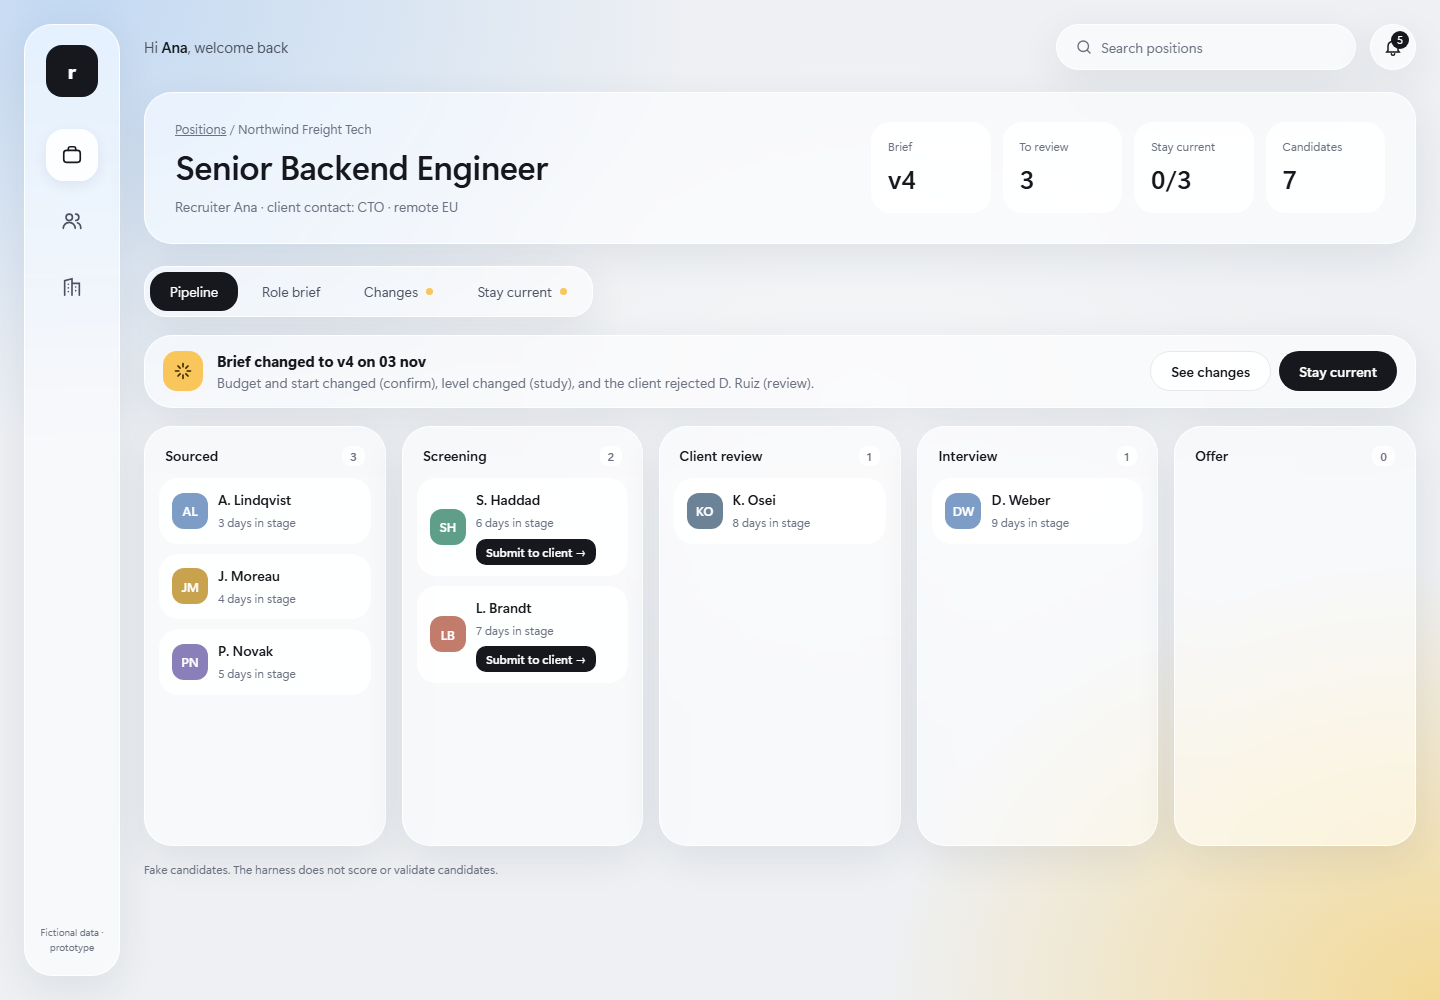
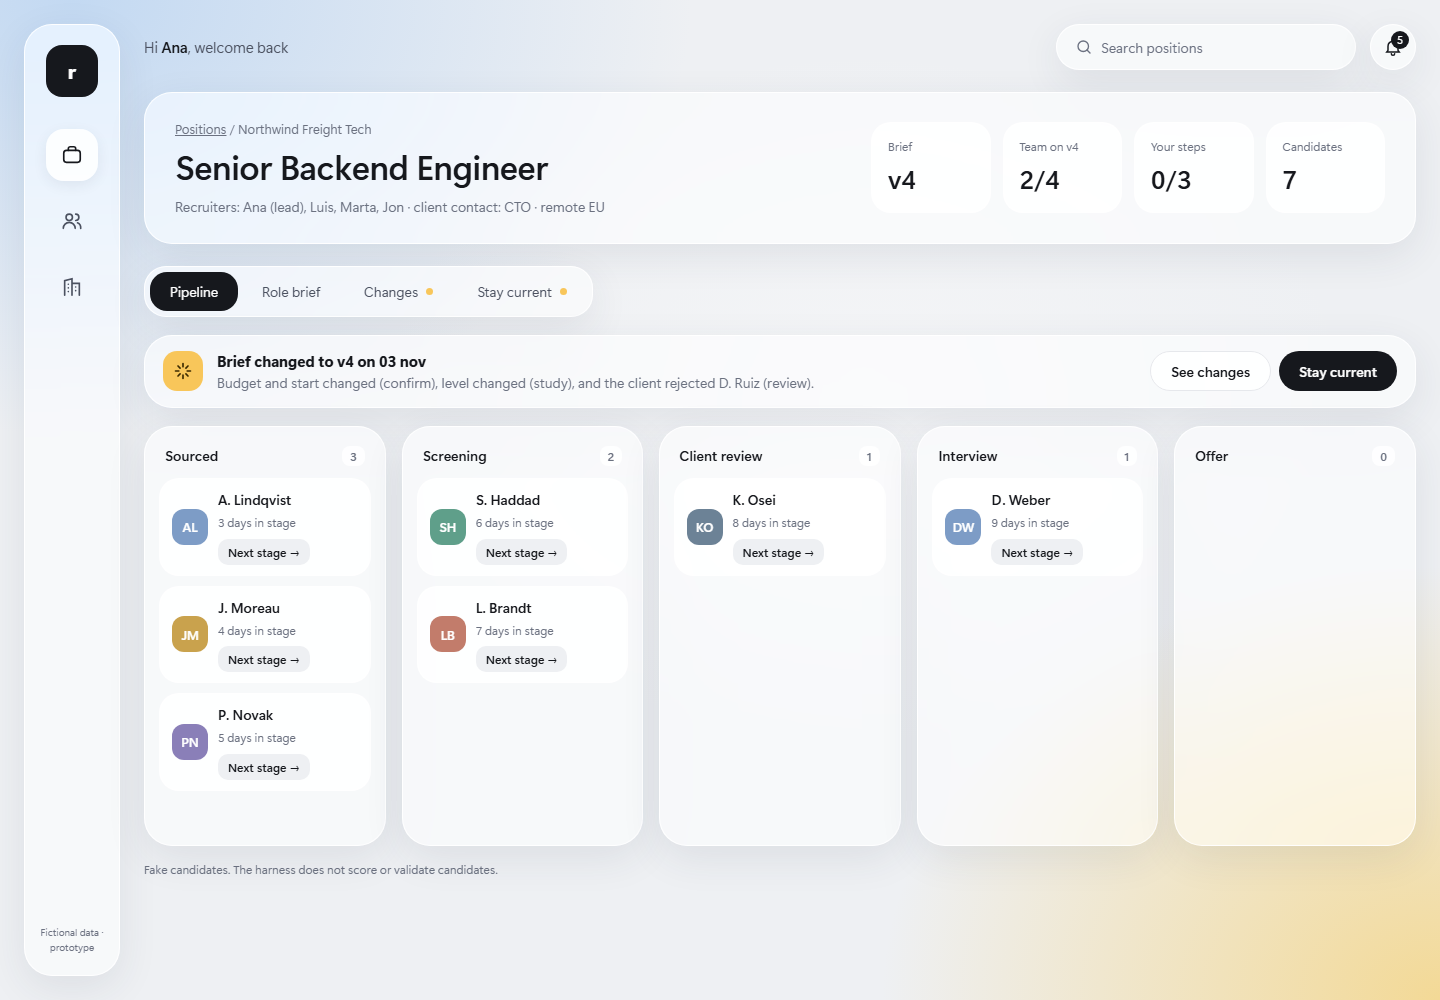
Remove submit gate, add team completion view, record transcript scope

diff --git a/_work/2026-11-07-client-context/proto-ats-a-hifi.html b/_work/2026-11-07-client-context/proto-ats-a-hifi.html
@@ -128,6 +128,8 @@ textarea{width:100%;min-height:80px;border-radius:16px;border:1.5px solid #d3d8e
 .mbox{width:620px;max-width:92vw;padding:24px 26px;background:rgba(255,255,255,.92)}
 .linkb{text-decoration:underline;font-weight:600;padding:0}
 .pop{position:fixed;left:50%;bottom:32px;transform:translateX(-50%);display:none;align-items:center;gap:14px;padding:14px 18px;z-index:10}.pop.on{display:flex}
+.mv{display:block;margin-top:6px;font-size:12px;font-weight:600;padding:4px 10px;border-radius:10px;background:#eef0f3;color:var(--ink)}.mv:hover{background:var(--ink);color:#fff}
+#toast{max-width:640px;font-size:14px}
 .stub{font-size:12px;color:var(--muted);margin-top:14px}
 </style></head><body>
 <div class="app">
@@ -139,7 +141,7 @@ textarea{width:100%;min-height:80px;border-radius:16px;border:1.5px solid #d3d8e
 <div class="foot">Fictional data · prototype</div>
 </aside>
 <main id="main"></main>
-<div class="overlay" id="modal" onclick="if(event.target===this)closeM()"></div>
+<div class="glass pop" id="toast" role="status"></div>
 <div class="glass pop" id="pop" role="status"><span>Audio answers are not part of this MVP. Please write your answer.</span><button class="pill light" onclick="document.getElementById('pop').classList.remove('on')">OK</button></div>
 </div>
 <script>
@@ -174,8 +176,11 @@ const STUDY={p:'Senior was the level; a strong mid-level is now discussed. For i
 pts:['Has owned real incidents, not only joined them (on-call, outage)','Explains what they decided and what changed after (post-mortem, follow-up)','Senior gap: leading others or designing for failure (lead, design)'],keys:[['on-call','outage','incident'],['post-mortem','postmortem','decided','changed','follow'],['lead','design','mentor']],src:'Sources: kickoff · 05 oct (must-have), founder email · 03 nov (level).'};
 const COV=[['Incident ownership','asked','g'],['Postgres under load','asked','g'],['Event-driven systems','briefly','ys'],['System design','not asked','r'],['Go (trainable)','4 of 11 questions','r']];
 const VER=[{k:'design',t:'A system they designed, with one trade-off they chose',why:'Client rejected on design depth; your screening did not ask.',src:'10 nov'},{k:'go',t:'Spend at most one question on Go',why:'Go is trainable since v2; 4 of 11 questions went to it.',src:'10 nov'}];
+const TEAM=[['Luis Ortega',3],['Marta Kim',3],['Jon Bauer',1]];
+function team(){return [['Ana Torres (you)',doneCount()],...TEAM]}
+function teamUp(){return team().filter(t=>t[1]===3).length}
 const BASEV=[{t:'The last production incident they owned end to end',src:'must-have · kickoff 05 oct'},{t:'Salary expectation against the €72k cap',src:'founder email · 03 nov'}];
-const S={view:'list',pos:null,tab:'pipeline',ack:{},study:'',studyDone:false,rev:'',revDone:false,verify:{}};
+const S={cards:{},view:'list',pos:null,tab:'pipeline',ack:{},study:'',studyDone:false,rev:'',revDone:false,verify:{}};
 const ic={mic:'<svg width="18" height="18" viewBox="0 0 24 24" fill="none" stroke="currentColor" stroke-width="1.8" stroke-linecap="round"><rect x="9" y="3" width="6" height="11" rx="3"/><path d="M5 11a7 7 0 0 0 14 0M12 18v3"/></svg>',bell:'<svg viewBox="0 0 24 24" fill="none" stroke="currentColor" stroke-width="1.8" stroke-linecap="round"><path d="M6 16V11a6 6 0 1 1 12 0v5l1.5 2h-15z"/><path d="M10 20a2 2 0 0 0 4 0"/></svg>',
 search:'<svg width="18" height="18" viewBox="0 0 24 24" fill="none" stroke="currentColor" stroke-width="1.8" stroke-linecap="round"><circle cx="11" cy="11" r="7"/><path d="m20 20-4-4"/></svg>',
 spark:'<svg width="20" height="20" viewBox="0 0 24 24" fill="none" stroke="#3b2a00" stroke-width="2" stroke-linecap="round"><path d="M12 3v4M12 17v4M3 12h4M17 12h4M6 6l2.5 2.5M15.5 15.5 18 18M6 18l2.5-2.5M15.5 8.5 18 6"/></svg>'};
@@ -187,26 +192,29 @@ function topBar(){const n=POS.reduce((a,p)=>a+p.unrev,0);return `<div class="top
 function draw(){$('main').innerHTML=topBar()+(S.view==='list'?list():position());const a=$('tstudy');if(a)a.value=S.study;const b=$('trev');if(b)b.value=S.rev;progress()}
 function spark(t){const w=260,h=44,m=Math.max(...t),pts=t.map((v,i)=>[i*w/(t.length-1),h-4-(v/m)*(h-10)]);return `<svg class="spark" viewBox="0 0 ${w} ${h}" preserveAspectRatio="none" width="100%"><polyline fill="none" stroke="#e0b347" stroke-width="2.5" stroke-linejoin="round" points="${pts.map(p=>p.join(',')).join(' ')}"/>${pts.map(p=>`<circle cx="${p[0]}" cy="${p[1]}" r="3" fill="#fff" stroke="#e0b347" stroke-width="2"/>`).join('')}</svg>`}
 function list(){const total=POS.reduce((a,p)=>a+p.unrev,0);return `<section class="glass hero" style="grid-template-columns:1fr auto">
-<div><p class="h1">Open positions</p><div class="big">${POS.length} searches</div><div style="margin-top:10px;display:flex;gap:8px"><span class="chip y">${total} brief changes to review</span><span class="chip g">1 stay-current check due</span></div></div>
+<div><p class="h1">Open positions</p><div class="big">${POS.length} searches</div><div style="margin-top:10px;display:flex;gap:8px"><span class="chip y">${total} brief changes to review</span><span class="chip g">1 team not up to date</span></div></div>
 <div class="sub" style="max-width:300px">Open a position to see its pipeline, the current role brief, how it changed, and whether you're up to date.</div></section>
 <h2 style="font-size:18px;font-weight:600;margin:28px 4px 14px">Your positions</h2>
 <div class="cards">${POS.map(p=>`<article class="glass pos" onclick="go('pos','${p.id}')" tabindex="0" onkeydown="if(event.key==='Enter')go('pos','${p.id}')">
 <div style="display:flex;justify-content:space-between;align-items:start"><div><div class="co">${p.co}</div><h3>${p.t}</h3></div><span class="chip k">${p.ver}</span></div>
 <div class="stats"><div class="tile stat"><small>Candidates</small><b>${p.stages.reduce((a,b)=>a+b)}</b></div>
 <div class="tile stat"><small>Changes to review</small><b>${p.unrev}</b> ${p.unrev?'<span class="chip y" style="vertical-align:4px">new</span>':''}</div></div>
-<div style="display:flex;justify-content:space-between;align-items:center;margin-top:12px"><span class="sub">Brief changes over time</span>${p.check?`<span class="chip g">check ${p.check}</span>`:'<span class="chip r">check due</span>'}</div>
+<div style="display:flex;justify-content:space-between;align-items:center;margin-top:12px"><span class="sub">Brief changes over time</span>${p.id==='nw-be'?`<span class="chip r">team ${teamUp()}/${team().length} on ${p.ver}</span>`:`<span class="chip g">team 3/3 on ${p.ver}</span>`}</div>
 ${spark(p.trend)}</article>`).join('')}</div>`}
 function position(){const p=POS.find(x=>x.id===S.pos),full=p.id==='nw-be';
 const T=[['pipeline','Pipeline'],['brief','Role brief'],['changes','Changes',p.unrev],['check','Stay current',doneCount()<3]];
 return `<section class="glass hero"><div><div class="crumb"><button onclick="go('list')">Positions</button> / ${p.co}</div>
-<div class="title">${p.t}</div><div class="sub" style="margin-top:4px">Recruiter Ana · client contact: CTO · remote EU</div></div>
-<div class="kpis"><div class="tile kpi"><small>Brief</small><b>${p.ver}</b></div><div class="tile kpi"><small>To review</small><b>${p.unrev}</b></div>
-<div class="tile kpi"><small>Stay current</small><b>${doneCount()}/3</b></div><div class="tile kpi"><small>Candidates</small><b>${p.stages.reduce((a,b)=>a+b)}</b></div></div></section>
+<div class="title">${p.t}</div><div class="sub" style="margin-top:4px">Recruiters: Ana (lead), Luis, Marta, Jon · client contact: CTO · remote EU</div></div>
+<div class="kpis"><div class="tile kpi"><small>Brief</small><b>${p.ver}</b></div><div class="tile kpi"><small>Team on v4</small><b>${full?teamUp()+"/"+team().length:"—"}</b></div>
+<div class="tile kpi"><small>Your steps</small><b>${doneCount()}/3</b></div><div class="tile kpi"><small>Candidates</small><b>${p.stages.reduce((a,b)=>a+b)}</b></div></div></section>
 <div class="seg glass">${T.map(([k,l,n])=>`<button class="${S.tab===k?'on':''}" onclick="tab('${k}')">${l}${n?'<span class="n"></span>':''}</button>`).join('')}</div>
 ${!full&&S.tab!=='pipeline'?`<div class="glass panel"><h3>No detailed data in this prototype</h3><div class="sub">Open Northwind · Senior Backend Engineer to see this tab.</div></div>`:({pipeline:pipe,brief,changes,check})[S.tab](p)}`}
-function pipe(p){let n=0;return `${p.unrev?`<div class="glass alert"><div class="ic">${ic.spark}</div><div><b>Brief changed to ${p.ver} on 03 nov</b><div class="sub">Budget and start changed (confirm), level changed (study), and the client rejected D. Ruiz (review).</div></div>
+function cards(p){if(!S.cards[p.id]){let n=0;S.cards[p.id]=p.stages.flatMap((k,i)=>Array.from({length:k},()=>{const nm=NAMES[n%12],c=AV[n%6];n++;return {nm,c,st:i,d:2+n}}))}return S.cards[p.id]}
+function move(id,nm){const c=S.cards[id].find(x=>x.nm===nm);c.st++;c.d=0;draw();toast(nm+' moved to '+STAGES[c.st]+'. No check needed: checks happen when the brief changes.')}
+function toast(t){const e=$('toast');e.textContent=t;e.classList.add('on');clearTimeout(e._t);e._t=setTimeout(()=>e.classList.remove('on'),3200)}
+function pipe(p){return `${p.unrev?`<div class="glass alert"><div class="ic">${ic.spark}</div><div><b>Brief changed to ${p.ver} on 03 nov</b><div class="sub">Budget and start changed (confirm), level changed (study), and the client rejected D. Ruiz (review).</div></div>
 <div class="act"><button class="pill light" onclick="tab('changes')">See changes</button><button class="pill dark" onclick="tab('check')">Stay current</button></div></div>`:''}
-<div class="board">${STAGES.map((s,i)=>`<div class="glass col"><h4>${s}<span>${p.stages[i]}</span></h4>${Array.from({length:p.stages[i]},()=>{const nm=NAMES[n%12],c=AV[n%6];n++;return `<div class="tile cand"><div class="av" style="background:${c}">${nm.split(' ').map(x=>x[0]).join('').replace('.','')}</div><div><b>${nm}</b><small>${2+n} days in stage</small>${i===1?`<button class="subm" onclick="openSubmit('${nm}')">Submit to client →</button>`:''}</div></div>`}).join('')}</div>`).join('')}</div>
+<div class="board">${STAGES.map((s,i)=>{const cs=cards(p).filter(c=>c.st===i);return `<div class="glass col"><h4>${s}<span>${cs.length}</span></h4>${cs.map(c=>`<div class="tile cand"><div class="av" style="background:${c.c}">${c.nm.split(' ').map(x=>x[0]).join('')}</div><div><b>${c.nm}</b><small>${c.d} days in stage</small>${i<4?`<button class="mv" onclick="move('${p.id}','${c.nm}')" title="Move to ${STAGES[i+1]}">Next stage →</button>`:''}</div></div>`).join('')}</div>`}).join('')}</div>
 <p class="stub">Fake candidates. The harness does not score or validate candidates.</p>`}
 function cur(r){let v=r[2][0];r[2].forEach(x=>{if(x!=='=')v=x});return v}
 function prev(r){let v=null;r[2].slice(0,3).forEach(x=>{if(x!=='=')v=x});return v}
@@ -231,7 +239,7 @@ function mic(){$('pop').classList.add('on')}
 function hits(t,keys){t=(t||'').toLowerCase();return keys.map(k=>k.some(w=>t.includes(w)))}
 function check(){const st=[['ack','Confirm','Facts you only need to know'],['study','Study','What changed in what to look for'],['review','Review a screening','Learn from the client decision']];
 return `<div class="two"><div>
-<section class="glass panel" style="margin-bottom:14px"><h3>Stay current · brief v4</h3><div class="sub" style="margin:0">Three short steps, created by what changed and by the client's last decision. Nothing here judges candidates.</div>
+<section class="glass panel" style="margin-bottom:14px"><h3>Stay current · brief v4</h3><div class="sub" style="margin:0">Three short steps, created once per brief change and after client decisions. Moving candidates is never blocked. Nothing here judges candidates.</div>
 <div class="steps">${st.map((s,i)=>`<div class="step ${stepDone(s[0])?'ok':''}"><span class="sn">${stepDone(s[0])?ICK:i+1}</span><div><b>${s[1]}</b><small>${s[2]}</small></div></div>`).join('')}</div></section>
 <section class="glass panel"><div class="qhead"><h3>1 · Confirm you know</h3><span class="qhint">${ACK.filter(a=>S.ack[a.k]).length} of ${ACK.length}</span></div><div class="sub">Facts that changed. No test: tick to confirm you have read them.</div>
 <div class="opts">${ACK.map(a=>`<button class="opt ack ${S.ack[a.k]?'sel':''}" role="checkbox" aria-checked="${!!S.ack[a.k]}" onclick="S.ack['${a.k}']=!S.ack['${a.k}'];draw()"><span class="box">${S.ack[a.k]?ICK:''}</span><span class="txt"><b>${a.t}</b><small>was ${a.was} · ${a.src}</small></span></button>`).join('')}</div></section>
@@ -246,21 +254,15 @@ ${S.studyDone?`<div class="fb"><div class="sub" style="margin-bottom:6px">What a
 <div class="covgrid">${COV.map(c=>`<div class="cov"><span>${c[0]}</span><span class="chip ${c[2]}">${c[1]}</span></div>`).join('')}</div>
 <p class="prompt">What would you verify next time, before submitting?</p>
 <div class="answer"><textarea id="trev" ${S.revDone?'disabled':''} placeholder="One or two things you would ask or check" aria-label="What you would verify" oninput="S.rev=this.value;progress()"></textarea><button class="micb" aria-disabled="true" aria-label="Record audio (not in this MVP)" onclick="mic()">${ic.mic}</button></div>
-${S.revDone?`<div class="fb"><div class="sub" style="margin-bottom:8px">Add to <b>Before you submit</b> for this role</div><div class="opts">${VER.map(v=>`<button class="opt ack ${S.verify[v.k]?'sel':''}" role="checkbox" aria-checked="${!!S.verify[v.k]}" onclick="S.verify['${v.k}']=!S.verify['${v.k}'];draw()"><span class="box">${S.verify[v.k]?ICK:''}</span><span class="txt"><b>${v.t}</b><small>${v.why}</small></span></button>`).join('')}</div></div>`:`<div class="submitbar"><button class="pill dark" id="revsub" onclick="S.revDone=true;VER.forEach(v=>S.verify[v.k]=true);draw()">See suggested checks</button></div>`}</section>
+${S.revDone?`<div class="fb"><div class="sub" style="margin-bottom:8px">Add to <b>What to verify in screenings</b> for this role</div><div class="opts">${VER.map(v=>`<button class="opt ack ${S.verify[v.k]?'sel':''}" role="checkbox" aria-checked="${!!S.verify[v.k]}" onclick="S.verify['${v.k}']=!S.verify['${v.k}'];draw()"><span class="box">${S.verify[v.k]?ICK:''}</span><span class="txt"><b>${v.t}</b><small>${v.why}</small></span></button>`).join('')}</div></div>`:`<div class="submitbar"><button class="pill dark" id="revsub" onclick="S.revDone=true;VER.forEach(v=>S.verify[v.k]=true);draw()">See suggested checks</button></div>`}</section>
 <p class="stub">Stub: answers are compared by keyword here. The harness will use the model with the brief as the reference (later, via the OpenAI API).</p></div>
 <div style="position:sticky;top:24px"><section class="glass panel"><h3>Your progress</h3><div class="score">${doneCount()}<small> / 3</small></div><div class="seg5">${['ack','study','review'].map(k=>`<i class="${stepDone(k)?'y':''}"></i>`).join('')}</div>
-<div class="sub">${doneCount()===3?'Up to date with v4.':'Finish the steps before submitting more candidates.'}</div></section>
-<section class="glass panel"><h3>Before you submit</h3><div class="sub">Checked on every submission to Northwind.</div><ul class="list">${verifyList().map((v,i)=>`<li><span class="num">${i+1}</span><div>${v.t}<small>${v.src}</small></div></li>`).join('')}</ul></section></div></div>`}
+<div class="sub">${doneCount()===3?'You are up to date with v4.':'Finish the steps to be up to date with v4.'}</div></section>
+<section class="glass panel"><div class="qhead"><h3>Team on v4</h3><span class="qhint">${teamUp()} of ${team().length} up to date</span></div><div class="sub">Each recruiter on this role completes the steps once per brief change.</div>
+${team().map(t=>`<div class="cov"><span>${t[0]}</span><span class="chip ${t[1]===3?'g':t[1]?'ys':'r'}">${t[1]===3?'✓ up to date':t[1]+' of 3 steps'}</span></div>`).join('')}
+<button class="pill light" style="margin-top:10px" onclick="toast('Mock: reminder not sent.')">Remind the others</button></section>
+<section class="glass panel"><h3>What to verify in screenings</h3><div class="sub">A reference for the team, not a gate on moving candidates.</div><ul class="list">${verifyList().map((v,i)=>`<li><span class="num">${i+1}</span><div>${v.t}<small>${v.src}</small></div></li>`).join('')}</ul></section></div></div>`}
 function verifyList(){return [...BASEV,...VER.filter(v=>S.verify[v.k]).map(v=>({t:v.t,src:'from screening review · '+v.src}))]}
-let SUBM=null;
-function openSubmit(n){SUBM={n,t:{}};drawModal()}
-function drawModal(){const m=$('modal'),L=verifyList(),ok=L.every((v,i)=>SUBM.t[i]);
-m.innerHTML=`<div class="glass mbox" role="dialog" aria-modal="true" aria-label="Submit candidate"><div class="qhead"><h3>Submit ${SUBM.n} to Northwind</h3><button class="round glass" aria-label="Close" onclick="closeM()">✕</button></div>
-<div class="sub">Tick each point your screening notes cover. Anything you can't tick, ask the candidate first.</div>
-<div class="opts" style="margin-top:12px">${L.map((v,i)=>`<button class="opt ack ${SUBM.t[i]?'sel':''}" role="checkbox" aria-checked="${!!SUBM.t[i]}" onclick="SUBM.t[${i}]=!SUBM.t[${i}];drawModal()"><span class="box">${SUBM.t[i]?ICK:''}</span><span class="txt"><b>${v.t}</b><small>${v.src}</small></span></button>`).join('')}</div>
-${doneCount()<3?`<div class="fb">You have ${3-doneCount()} step(s) left in <b>Stay current</b>. <button class="linkb" onclick="closeM();tab('check')">Open it</button></div>`:''}
-<div class="submitbar" style="margin-top:14px"><button class="pill dark" ${ok?'':'disabled'} onclick="SUBM.sent=true;drawModal()">Submit to client</button><button class="pill light" onclick="closeM()">Ask the candidate first</button>
-${SUBM.sent?'<span class="chip g">Mock: not sent anywhere</span>':''}</div></div>`;m.classList.add('on')}
 function closeM(){$('modal').classList.remove('on')}
-const h=location.hash.slice(1);if(['pipeline','brief','changes','check'].includes(h)){S.view='pos';S.pos='nw-be';S.tab=h}if(location.search.includes('demo')){S.ack={budget:true,start:true};S.study='They must have been on-call and owned an outage, and explain what they decided.';S.studyDone=true;S.rev='Ask about a system they designed.';S.revDone=true;VER.forEach(v=>S.verify[v.k]=true)}if(location.search.includes('submit'))setTimeout(()=>{openSubmit('S. Haddad');SUBM.t={0:true,1:true};drawModal()},50);draw();
+const h=location.hash.slice(1);if(['pipeline','brief','changes','check'].includes(h)){S.view='pos';S.pos='nw-be';S.tab=h}if(location.search.includes('demo')){S.ack={budget:true,start:true};S.study='They must have been on-call and owned an outage, and explain what they decided.';S.studyDone=true;S.rev='Ask about a system they designed.';S.revDone=true;VER.forEach(v=>S.verify[v.k]=true)}draw();
 </script></body></html>

diff --git a/knowledge/business.md b/knowledge/business.md
@@ -59,6 +59,11 @@ Recommended option accepted for C1, C2, C4–C18; C3 proposal accepted. Notes th
 - **V3 yes:** the stage-and-evidence rule goes into AGENTS.md (rule 13).
 - **Presentation intent (draft, for the end):** readme.html becomes the human's presentation. Message: the owner has built RAG systems (the human wrote "RAC"; interpreted as RAG, to confirm) and app integrations many times. They omitted them from this MVP on purpose because integrations depend on each client's tools and are easy to learn. The point of this submission is the reasoning: what changed, why it matters, and how the recruiter's judgment follows. Final wording is the owner's.
 
+## Scope and team adjustments (prompts/client-context/023-user.md, 2026-11-08)
+- Out of scope (stated explicitly): using session transcripts to judge whether candidates match the role. Transcripts are used only to review the recruiter's screening against the brief.
+- No gate on moving candidates: submitting or moving to the next stage is never blocked by a form. Checks are triggered by brief changes and client decisions, not per candidate. "Before you submit" is renamed "What to verify in screenings" and is a reference only.
+- Team view: several recruiters per role; each completes the Stay current steps once per brief change. The position shows how many are up to date (e.g. 2/4 on v4), with a per-recruiter list and a (mock) reminder.
+
 ## Decisions before implementation (prompts/client-context/021-user.md, 2026-11-08)
 - Feedback loop: F3 (screening-gap review after a client decision) + F1 (verify-before-submit list) now; F2 (field primers) later.
 - Recalibration by change type: budget, start and restrictions = acknowledge only (checkbox, no test). Must-haves = study (free text) only when something new must be learned; removing a criterion (A,B,C to A,B) needs no study. Level changes = study, since expected depth per skill changes.

diff --git a/memory/STATE.md b/memory/STATE.md
@@ -2,7 +2,7 @@
 
 Updated: 2026-11-07 · Claude (client-context chat). Stage: client-context answers recorded; plan next.
 
-LATEST: the human answered the pre-implementation questions (prompts/client-context/021-user.md; see knowledge/business.md "Decisions before implementation"): F3+F1 now, F2 later; acknowledge vs study triggers by change type; free-text study with disabled audio button; three mock roles confirmed; OpenAI API only at the end; SQLite for structured data with raw sources as files; README must document install. proto-ats-a-hifi.html now has "Stay current" (Confirm, Study, Review a screening) and a "Submit to client" checklist from Screening. Checked by headless Edge screenshots (evidence/). Next: P-prime objective map and workflow stages with checks, then plan-gate Codex review, JD research, mock data, harness.
+LATEST: prototype A adjusted per prompts/client-context/023-user.md: no checklist gate on moving candidates (plain "Next stage"); checks only on brief changes and client decisions; team view of recruiters up to date per brief version; candidate-matching via transcripts recorded as out of scope. Earlier decisions in knowledge/business.md ("Decisions before implementation"): F3+F1 now, F2 later; acknowledge vs study triggers; SQLite + raw files; OpenAI API at the end; README install notes. Checked by screenshots (evidence/) and a scripted move. Next: P-prime objective map and workflow stages with checks, then plan-gate Codex review, JD research, mock data, harness.
 
 Earlier baton (Codex):
 

diff --git a/prompts/client-context/023-user.md b/prompts/client-context/023-user.md
@@ -1,0 +1,3 @@
+# User message 023 (verbatim)
+
+Some other site information at the end that, well, I mean, that is going to be used at the end. For example, we can use the transcripts of the sessions. We can use to compare if the candidates match the form that you are asking, of course. But this is not part of the scope, okay? So we have to clarify that. Then on the option that you added, that submit to client, you are asking a form. It's a selectable option, but doesn't make sense to have that because it is going to slow down the process of the candidates or it's going to slow down the speed of the users. So let's remove that if they want to send it. Of course, just they can send it. They can move it to the next stage. So I don't like that validation before sending. The validation before sending actually it's more like when there is a new candidate. I mean, when a change happens, because this is not like you have to revalidate every time. It's like if there is a change that the recruiters needs to know, they have to do the assessment, of course. Now let's consider another scenario where there are many recruiters. Of course, we should have something like validate that how many recruiters already did the assessment right. That way we enforce the quality on all of the team.

diff --git a/prompts/client-context/024-assistant.md b/prompts/client-context/024-assistant.md
@@ -1,0 +1,2 @@
+# Assistant message 024 (summary of visible reply)
+Removed the submit checklist: candidates move with a plain "Next stage" button. Added a team view (recruiters up to date on v4, per-recruiter status, mock reminder). Renamed the verify list to a reference. Recorded that candidate matching via transcripts is out of scope. Verified by screenshots and a scripted move.
